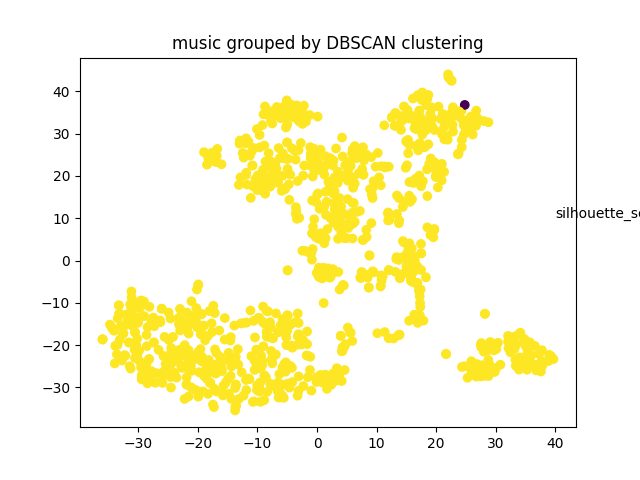
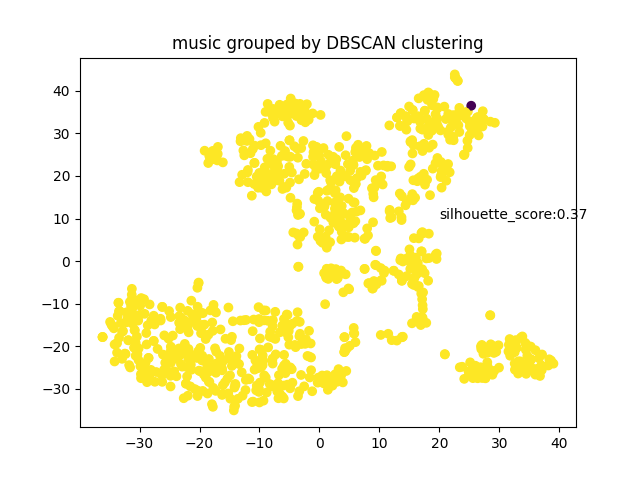
agghhhhhhh

diff --git a/src/main.py b/src/main.py
@@ -66,27 +66,27 @@ ss_dbscan = silhouette_score(emb_list, y_dbscan)
 
 plt.scatter(x[:,0],x[:,1],c=y_encoded, cmap='viridis')
 plt.title("music grouped by Genre")
-plt.text(40,10, f"silhouette_score:{ss_genre:.2f}")
+plt.text(20,10, f"silhouette_score:{ss_genre:.2f}")
 plt.savefig(f"{figs}/scater_true.png")
 plt.clf()
 
 plt.scatter(x[:,0],x[:,1], c=y_kmeans, cmap='viridis')
 plt.title("music grouped by K-Means clustering")
-plt.text(40,10, f"silhouette_score:{ss_kmeans:.2f}")
+plt.text(20,10, f"silhouette_score:{ss_kmeans:.2f}")
 plt.savefig(f"{figs}/scater_kmeans.png")
 plt.clf()
 
 
 plt.scatter(x[:,0],x[:,1], c=y_hdbscan, cmap='viridis')
 plt.title(f"music grouped by HDBSCAN clustering")
-plt.text(40,10, f"silhouette_score:{ss_hdbscan:.2f}")
+plt.text(20,10, f"silhouette_score:{ss_hdbscan:.2f}")
 plt.savefig(f"{figs}/scater_HDBSCAN.png")
 plt.clf()
 
 
 plt.scatter(x[:,0],x[:,1], c=y_dbscan, cmap='viridis')
 plt.title("music grouped by DBSCAN clustering")
-plt.text(40,10, f"silhouette_score:{ss_dbscan:.2f}")
+plt.text(20,10, f"silhouette_score:{ss_dbscan:.2f}")
 plt.savefig(f"{figs}/scater_DBSCAN.png")
 plt.clf()
 
